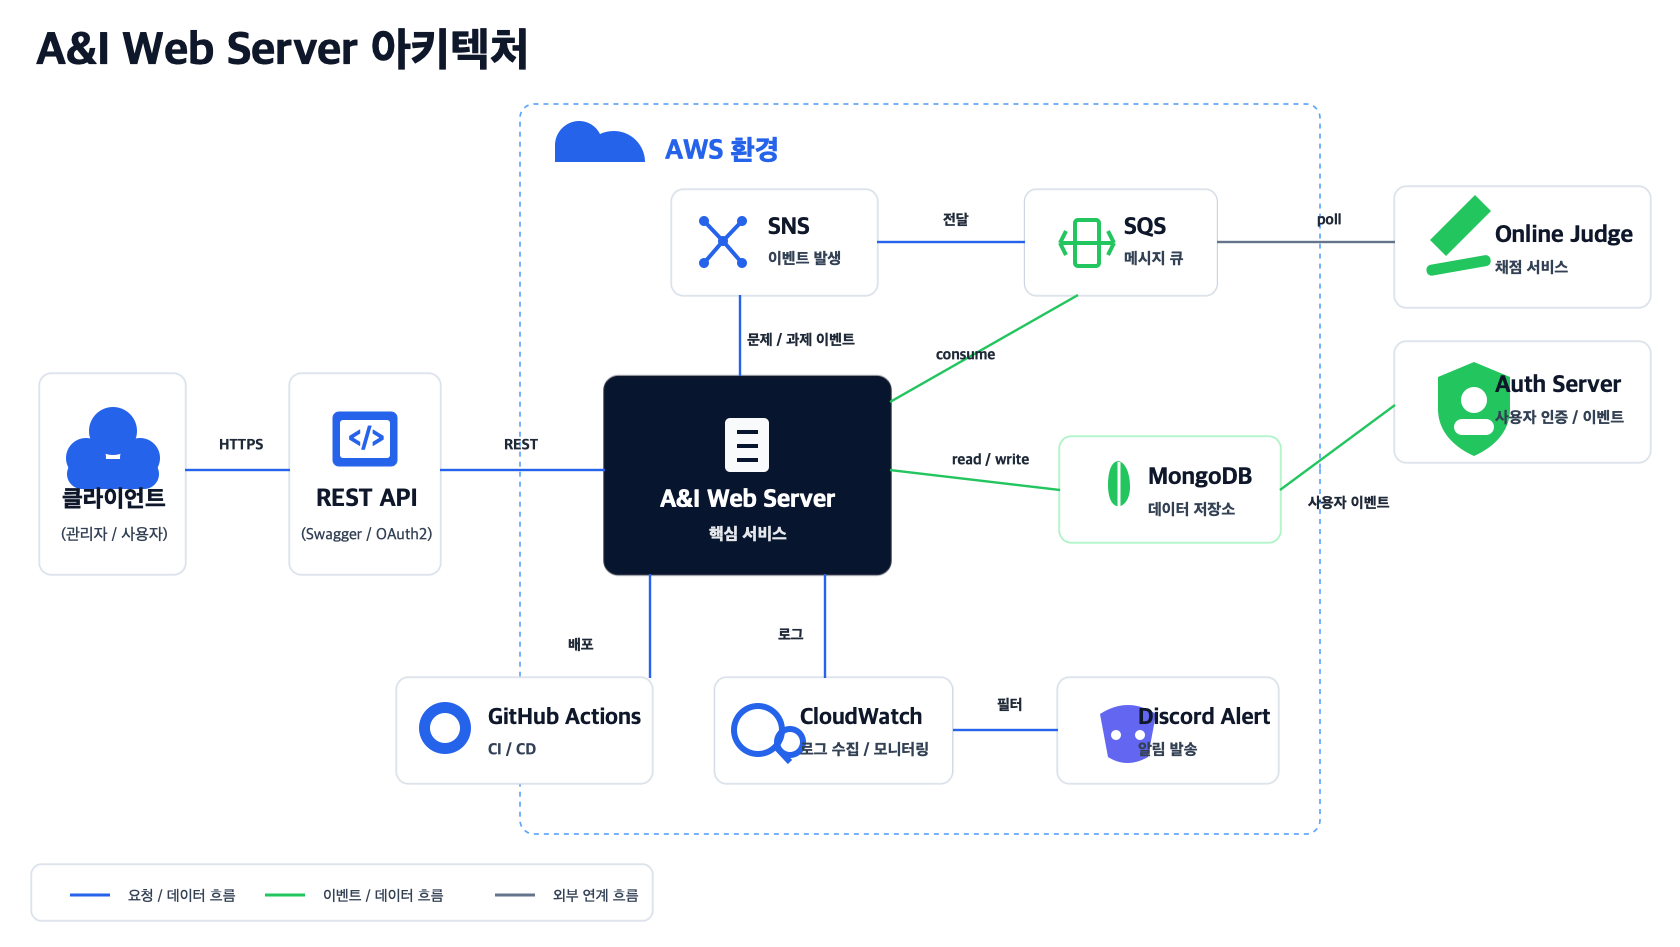
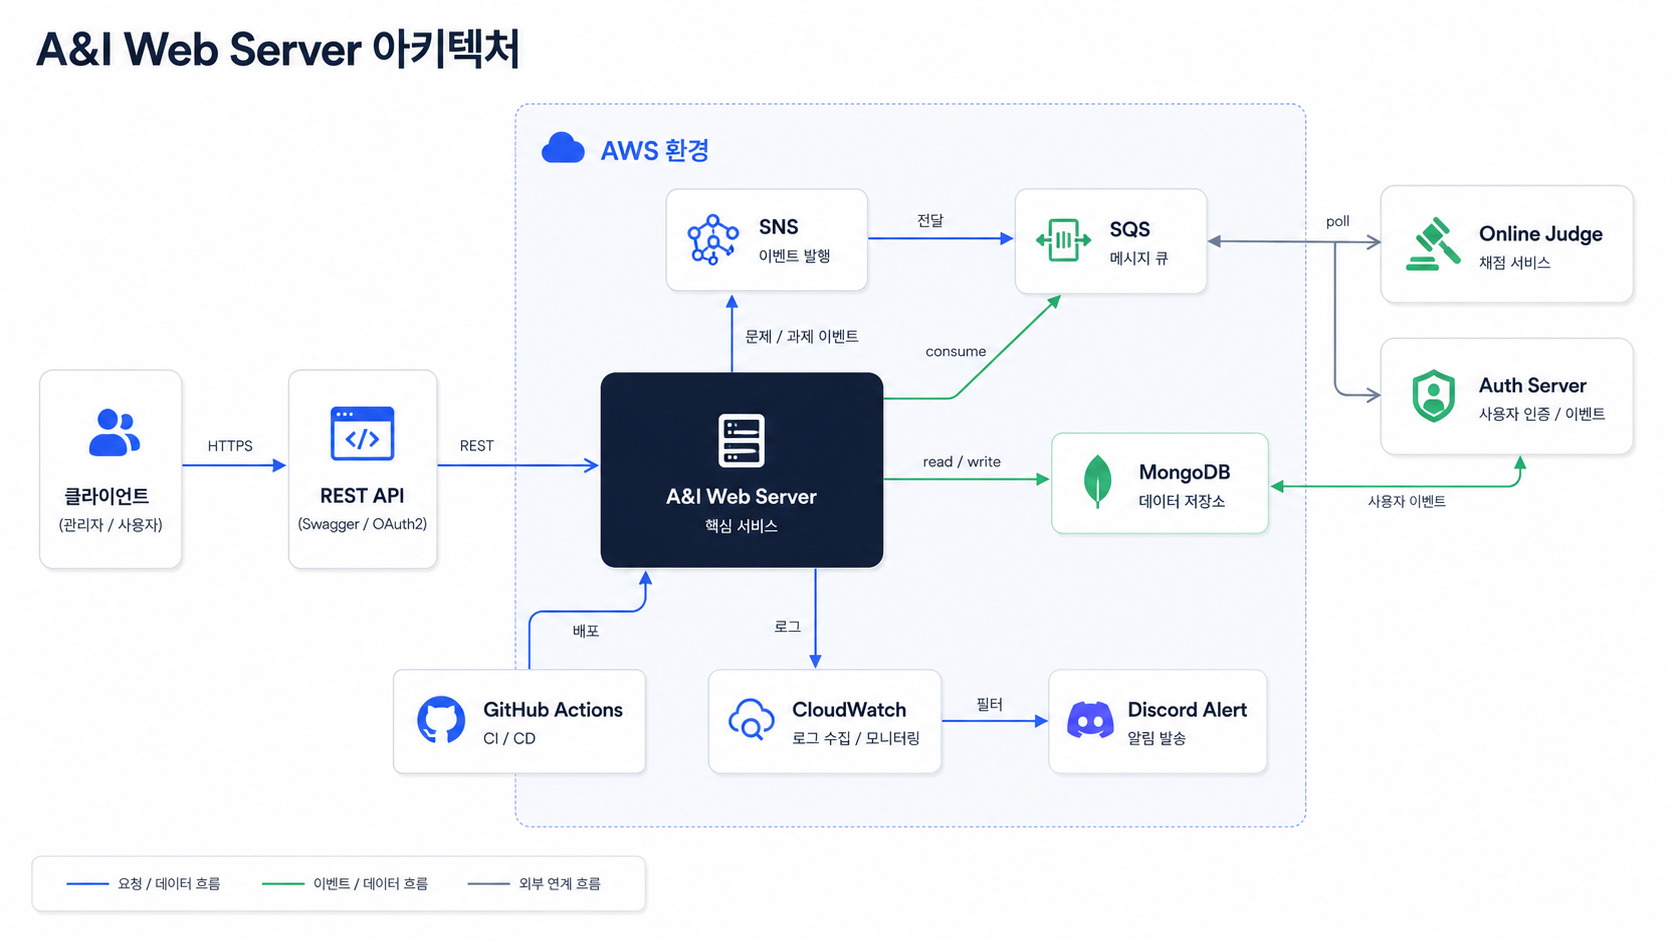
docs: replace portfolio diagrams

diff --git a/docs/DEMO_CAPTURE.md b/docs/DEMO_CAPTURE.md
@@ -8,8 +8,8 @@
 
 | 기능 | 파일 | 생성 방식 | 상태 |
 | :--- | :--- | :--- | :--- |
-| 시스템 구조 | `docs/assets/diagrams/architecture.png` | draw.io 원본 기반 정적 PNG 생성 | 생성 |
-| MongoDB 데이터 모델 | `docs/assets/diagrams/data-model.png` | draw.io 원본 기반 정적 PNG 생성 | 생성 |
+| 시스템 구조 | `docs/assets/diagrams/architecture.png` | 첨부 PNG 원본 반영 | 생성 |
+| MongoDB 데이터 모델 | `docs/assets/diagrams/data-model.png` | 첨부 PNG 원본 반영 | 생성 |
 | 커버리지 요약 | `docs/assets/images/coverage-report.png` | JaCoCo XML 기준 summary 이미지 생성 | 생성 |
 | v2 Swagger/OpenAPI 문서 | `docs/assets/images/swagger-ui-v2.jpg` | 로컬 Swagger 화면 screenshot | 생성 |
 | Assignment Operation | `docs/assets/gifs/assignment-operation.gif` | [확인 필요] | 미생성 |
